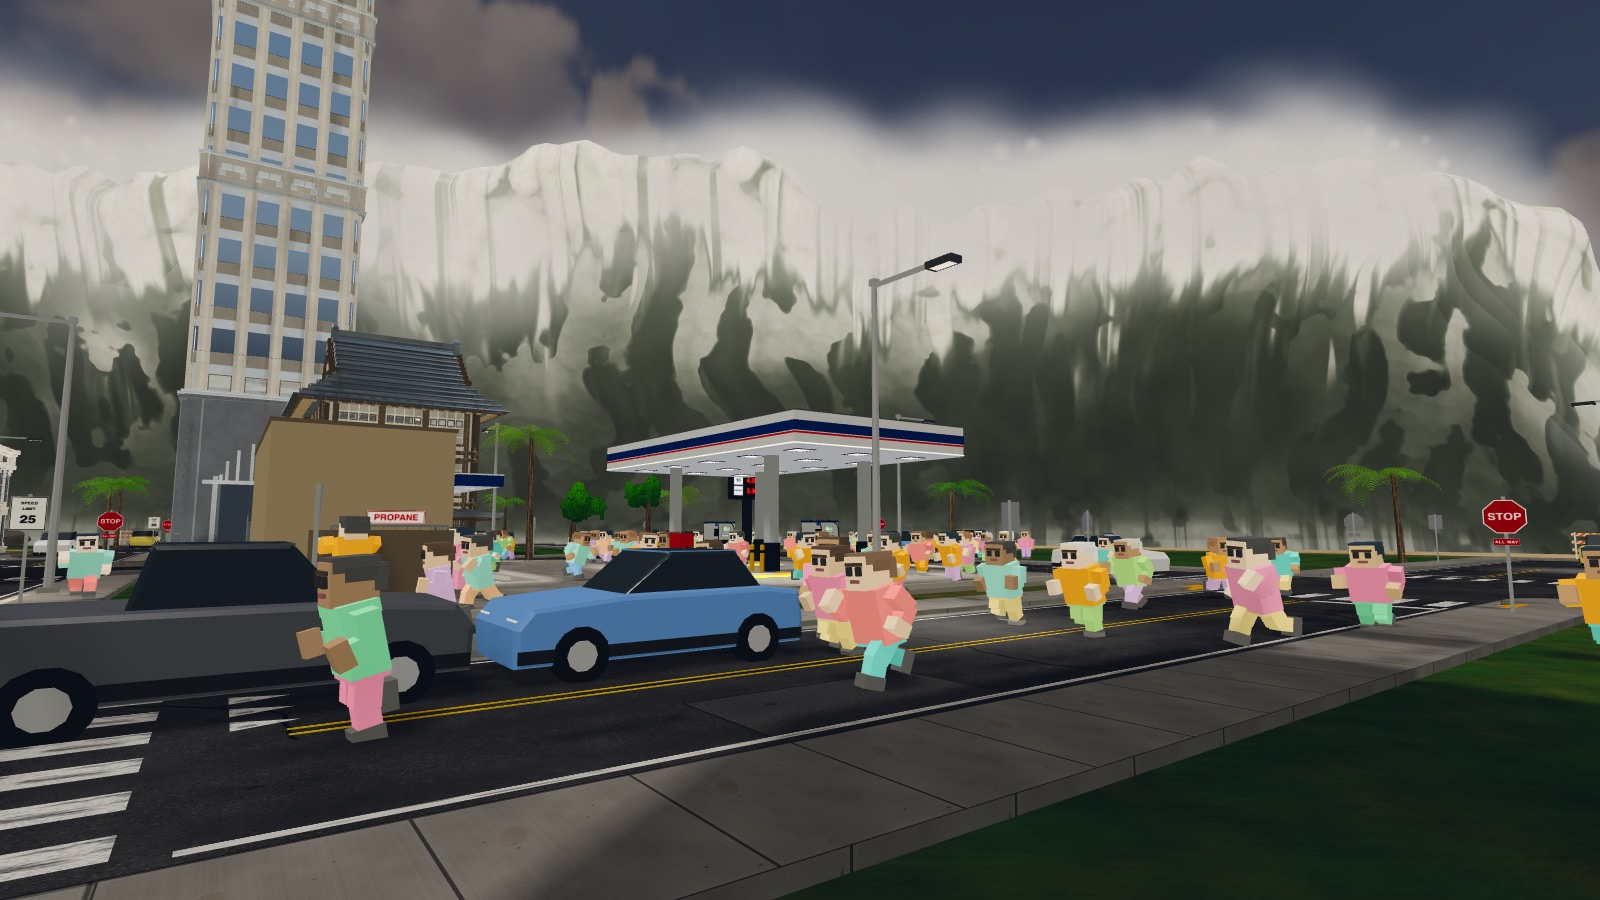
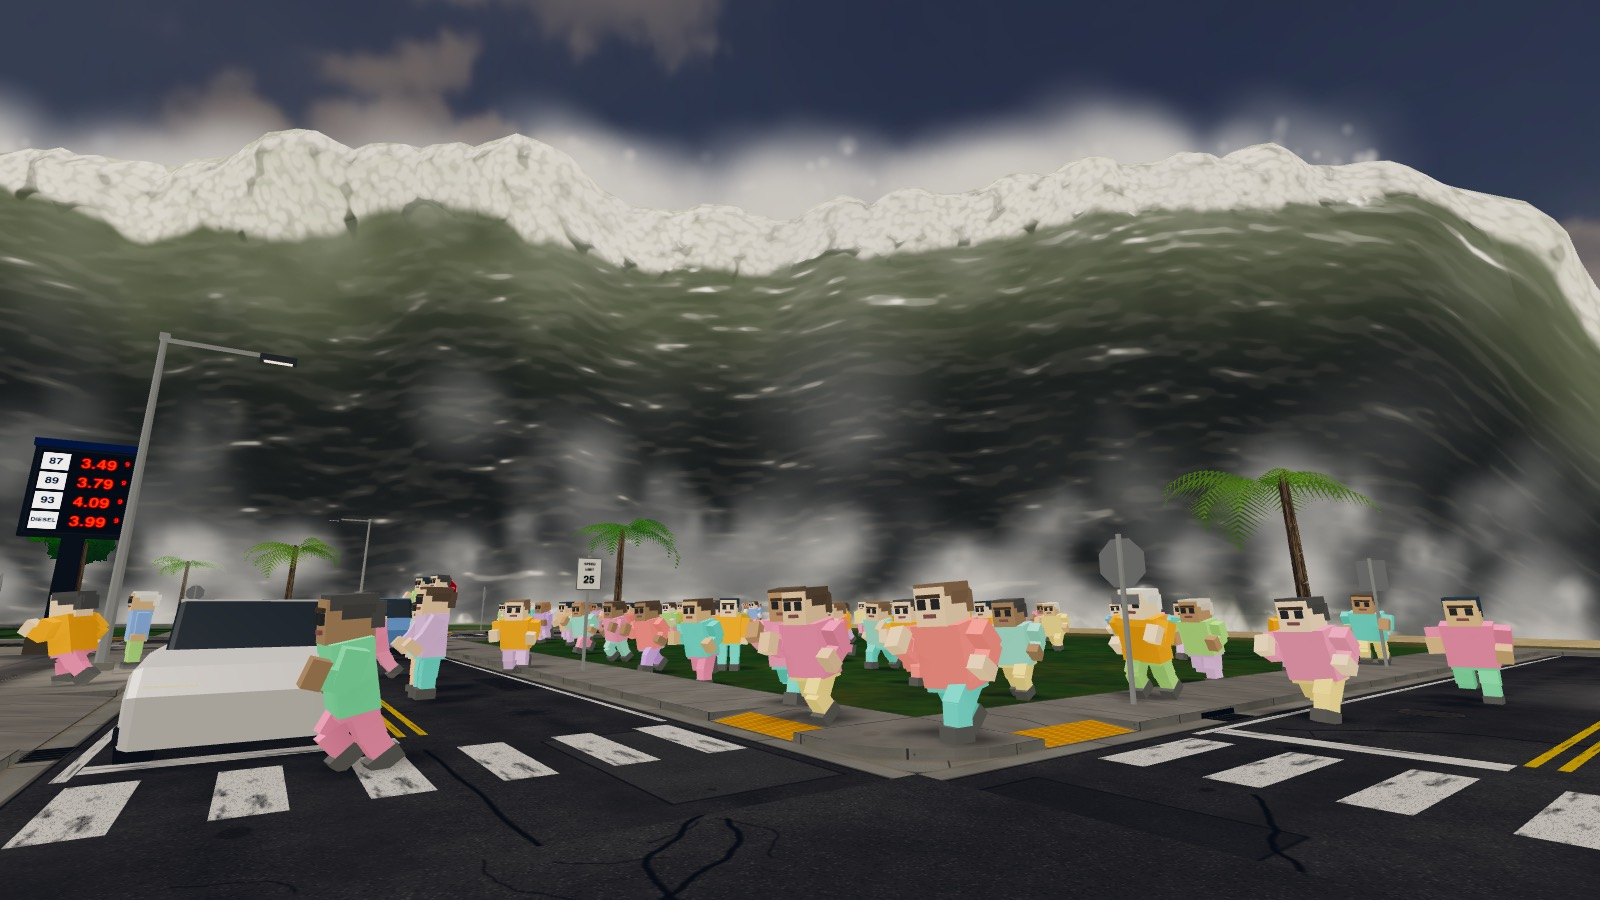
Tsunami face is water, not a snowy cliff: dark glossy rippled face, torn lip, exploding foot; key art re-shot closer
The previous pass read as a grey mountain range with snow on it. Following
the Tohoku reference:
- the face is clean, dark and GLOSSY: no more tongues/runs/lace/streaked
  normals (the rock gullies); instead fine slanted ripples climbing the wall
  (finite-difference normals) catching storm-sky reflection, sheen and sharp
  highlights; darker at the heavy base, varied along the front
- a lighter translucent green-brown band just under the lip where the water
  thins, lit through
- white water is a narrow torn churn at the lip and a violent foam band at
  the foot, not a snowfield; smaller boils, flatter crest lobes, more lean
- spray: new FOOT BURST population (white columns exploding up and forward
  where the base hits land), mist streaming back off the crest, veil and
  droplets toned down so nothing reads as floating blobs
- key art lens 76 m inland at 1.6 m, fov 64: the wall fills the sky over the
  street; the shore scan now fans clearance rays across the frame (and
  overhead) so no canopy or sign fronts the shot

Claude-Session: https://claude.ai/code/session_01QRERvJmgMuzmBcT6ueQDKF

diff --git a/src/world/water_spec.js b/src/world/water_spec.js
@@ -2912,8 +2912,8 @@
       uLP: { value: new THREE.Vector3() }, uHalfW: { value: 160 },
       uBodySea: { value: new THREE.Color(0.045, 0.085, 0.074) },
       uBodyMud: { value: new THREE.Color(0.072, 0.058, 0.040) },
-      uGlowSea: { value: new THREE.Color(0.08, 0.13, 0.115) },
-      uGlowMud: { value: new THREE.Color(0.12, 0.105, 0.08) },
+      uGlowSea: { value: new THREE.Color(0.07, 0.12, 0.10) },
+      uGlowMud: { value: new THREE.Color(0.12, 0.11, 0.07) },
       uFoamClean: { value: new THREE.Color(0.90, 0.92, 0.92) },
       uFoamMud: { value: new THREE.Color(0.66, 0.62, 0.55) },
     });
@@ -2938,7 +2938,7 @@
       // where the whitewater is: the roller on the upper front (deeper with
       // sediment), a little over the back of the crest, the foot, the skirt
       "float rollMask( float u, float side, float sk, float sdn ) {",
-      "  float lo = mix( 0.84, 0.72, uTurbid );",
+      "  float lo = mix( 0.88, 0.80, uTurbid );",
       "  float r = smoothstep( lo, lo + 0.22, u ) * mix( 0.30, 1.0, side ) * ( 1.0 - sk );",
       "  r = max( r, side * ( 1.0 - sk ) * ( 1.0 - smoothstep( 0.12, 0.30, u ) ) * 0.65 );",
       "  r = max( r, sk * ( 1.0 - smoothstep( 0.0, 0.8, sdn ) ) * ( 0.55 + 0.45 * uTurbid ) );",
@@ -2954,7 +2954,7 @@
       "  p.z += sin( A0 * 0.77 ) * ( 0.08 + 0.78 * u ) * ch;",
       // the throw: the upper front runs ahead of its own foot
       "  float cw = u * u * mix( 0.45, 1.0, side ) * ( 1.0 - sk );",
-      "  p.z += uCurl * 6.2 * uHs * cw;",
+      "  p.z += uCurl * 8.0 * uHs * cw;",
       // the crest is never one height: lobes, and chunks thrown up out of it
       "  float lr = max( 0.0, ( u - uLobeFrom ) / ( 1.0 - uLobeFrom ) );",
       "  float lw = lr * lr * ( 1.0 - sk );",
@@ -3037,101 +3037,90 @@
       "  float fall = arc - T * uRollV;",
       "  float nA = fbm( vec2( x * 0.045, fall * 0.06 ), fine );",
       "  float nB = fbm( vec2( x * 0.30, fall * 0.34 ), fine );",
-      // streaks: stretched DOWN the face and braided by a slow warp
-      "  float nS = fbm( vec2( x * 0.42 + nA * 3.0, ( arc - T * uRollV * 1.7 ) * 0.09 ), fine );",
       "  vec3 cA = cellB( vec2( x, fall ) / ( uLumpS * 0.55 ), T * 1.2 );",
       "  vec3 cB = fine > 0.03 ? cellB( vec2( x, fall * 1.1 ) / ( uLumpS * 0.22 ) + 7.7, T * 1.7 ) : vec3( 0.6, 0.0, 0.0 );",
-      // ---- foam coverage
-      /* THE ROLLER: its lower edge is torn into tongues metres long, and it
-         reaches further down the wall the more sediment it is carrying. */
+      // ---- foam coverage (2026-09-27 WATER PASS)
+      /* The last pass read as a grey mountain range with snow on it: a matte
+         body streaked with vertical gullies (tongues, runs, lace, streaked
+         normals) under a uniform fluffy white cap. Tohoku footage says the
+         opposite: the FACE is dark, clean and GLOSSY, the white water is a
+         ragged churn at the LIP and an explosion at the FOOT where the water
+         hits land, and the only light band on the face is the thinning water
+         just under the lip. So: no face streaks at all, a narrow torn lip,
+         a violent base. */
       "  float jag = fbm( vec2( x * 0.05 - T * 0.02, 3.7 ), 0.4 );",
-      "  float edge = mix( 0.88, 0.76, tb ) - ( jag - 0.5 ) * 0.26 - ( nS - 0.5 ) * 0.22 - 0.05 * uCurlN;",
-      "  float rollF = smoothstep( edge - 0.03, edge + 0.08, up ) * smoothstep( 0.2, 0.7, side ) * ( 1.0 - sk );",
-      // tongues pouring down the dark wall below it
-      "  float nT = fbm( vec2( x * 0.34 + nA * 2.6, ( arc - T * uRollV * 1.4 ) * 0.06 ), fine );",
-      "  float tongue = side * ( 1.0 - sk ) * smoothstep( 0.55, 0.76, nT ) * smoothstep( edge - 0.38, edge - 0.02, up ) * ( 0.55 + 0.35 * tb );",
-      // the crest rolling over the back, and aerated sheets running down it
-      "  float backF = ( 1.0 - side ) * ( smoothstep( 0.82, 0.97, up + ( nB - 0.5 ) * 0.25 )",
-      "              + smoothstep( 0.62, 0.86, nS ) * smoothstep( 0.25, 0.8, up ) * 0.45 );",
-      // the churn at the foot, and the boil across the skirt
-      "  float footF = side * ( 1.0 - sk ) * ( 1.0 - smoothstep( 0.10, 0.26 + 0.1 * tb, up ) ) * smoothstep( 0.30, 0.60, nB + 0.25 * tb );",
-      "  float skirtF = sk * smoothstep( 0.34 - 0.14 * tb, 0.62, nB * 0.6 + cA.x * 0.4 ) * ( 1.0 - smoothstep( 0.35, 1.0, sdn ) );",
-      "  float foam = max( max( rollF, tongue ), max( backF, max( footF, skirtF ) ) );",
-      /* HOLES. Dark water shows through between the boils: coverage without
-         gaps is the white/tan curtain failure. */
-      "  float hole = 1.0 - smoothstep( 0.16, 0.36, cA.x * 0.55 + nB * 0.45 );",
-      "  foam *= 1.0 - hole * mix( 0.85, 0.55, rollF );",
-      "  foam = clamp( foam * ( 0.80 + 0.35 * uFoam ), 0.0, 1.0 );",
-      /* WATER RUNNING THROUGH THE FOAM (2026-09-27). In a still frame the
-         roller read as snow on rock: every boil a solid lit lump. Real
-         whitewater is streaked with the dark water pouring through it, fall
-         lines running down the face and dragged with the roll. */
-      "  float fall2 = fbm( vec2( x * 0.95 + nA * 1.5, arc * 0.022 - T * uRollV * 0.05 ), fine );",
-      "  float runs = smoothstep( 0.52, 0.78, fall2 ) * side * ( 1.0 - sk );",
-      "  foam *= 1.0 - runs * 0.45;",
-      /* LACE (2026-09-27, keyart pass). Between the roller and the foot the
-         wall was one flat dark sheet, which is what made the whole face read
-         as rock with snow on it. A real face is MARBLED: a torn net of foam
-         stretched over the dark water, being drawn UP the face toward the
-         crest. The net is the creases of a warped, stretched cellular field
-         (irregular cells, never parallel stripes), patchy, densest just under
-         the roller where the foam is tearing off it. */
-      "  vec2 lq = vec2( x * 0.20 + nA * 2.4, ( arc + T * uRollV * 0.55 ) * 0.085 + nB * 0.9 );",
-      "  float cl = fine > 0.03 ? cellB( lq, T * 0.35 ).x : 0.6;",
-      "  float net = 1.0 - smoothstep( 0.60, 0.74, cl );",
-      "  net *= smoothstep( 0.30, 0.62, fbm( vec2( x * 0.035 + 11.0, arc * 0.03 + T * 0.08 ), fine ) );",
-      "  float lace = net * side * ( 1.0 - sk ) * ( 0.30 + 0.70 * smoothstep( 0.15, edge, up ) ) * ( 1.0 - rollF ) * fine;",
-      "  foam = max( foam, lace * ( 0.55 + 0.25 * tb ) );",
+      "  float jag2 = fbm( vec2( x * 0.19 + T * 0.05, 8.1 ), fine );",
+      "  float edge = mix( 0.92, 0.86, tb ) - ( jag - 0.5 ) * 0.10 - ( jag2 - 0.5 ) * 0.06 - 0.03 * uCurlN;",
+      "  float rollF = smoothstep( edge - 0.015, edge + 0.04, up ) * smoothstep( 0.2, 0.7, side ) * ( 1.0 - sk );",
+      "  float backF = ( 1.0 - side ) * smoothstep( 0.86, 0.98, up + ( nB - 0.5 ) * 0.2 );",
+      // the foot: whitewater climbing the lower wall where it hits the land
+      "  float footTop = 0.10 + 0.12 * tb + ( jag2 - 0.5 ) * 0.10 + ( jag - 0.5 ) * 0.08;",
+      "  float footF = side * ( 1.0 - sk ) * ( 1.0 - smoothstep( footTop - 0.03, footTop + 0.04, up ) );",
+      "  float skirtF = sk * smoothstep( 0.30 - 0.14 * tb, 0.58, nB * 0.6 + cA.x * 0.4 ) * ( 1.0 - smoothstep( 0.35, 1.0, sdn ) );",
+      "  float foam = max( max( rollF, backF ), max( footF, skirtF ) );",
+      /* HOLES: churn is torn, never a blanket. Dark water shows through
+         between the boils, most at the ragged margins of each band. */
+      "  float hole = 1.0 - smoothstep( 0.20, 0.42, cA.x * 0.55 + nB * 0.45 );",
+      "  foam *= 1.0 - hole * mix( 0.8, 0.3, rollF );",
+      "  foam = clamp( foam * ( 0.85 + 0.30 * uFoam ), 0.0, 1.0 );",
       /* THE WHITE LINE. Far out (or while the face is still low) the churn is
          sub-pixel and what the eye sees is a bright white line on the sea. */
       "  float far = max( smoothstep( 280.0, 900.0, dist ), 1.0 - smoothstep( 3.5, 9.0, uH ) );",
       "  foam = mix( foam, max( foam, smoothstep( 0.40, 0.75, up + 0.25 * side ) * ( 1.0 - sk ) ), far );",
-      // ---- normal: vertex boils + the fine boils' analytic slope in the foam
+      // ---- normal
       "  vec3 nrm = normalize( vNrm );",
       "  if ( dot( nrm, V ) < 0.0 ) nrm = -nrm;",
       "  vec3 Tt = cross( vec3( 0.0, 1.0, 0.0 ), nrm );",
       "  float tl = length( Tt );",
       "  Tt = tl > 0.08 ? Tt / tl : vec3( 1.0, 0.0, 0.0 );",
       "  vec3 Bt = cross( nrm, Tt );",
+      /* RIPPLES ON THE FACE: wide, low, slightly slanted swells climbing the
+         wall (a bore's face is being fed from below), the slope taken by
+         finite differences so every crest of every ripple catches the sky. */
+      "  vec2 rq = vec2( x * 0.16 + arc * 0.03, arc * 0.50 + T * uRollV * 0.55 );",
+      "  float r0 = fbm( rq, fine ), rx = fbm( rq + vec2( 0.35, 0.0 ), fine ), ry = fbm( rq + vec2( 0.0, 0.35 ), fine );",
+      "  vec2 rq2 = vec2( x * 0.62 - arc * 0.08, arc * 1.6 + T * uRollV * 1.4 ) + 17.0;",
+      "  float s0 = vn( rq2 ), sx = vn( rq2 + vec2( 0.3, 0.0 ) ), sy = vn( rq2 + vec2( 0.0, 0.3 ) );",
+      "  vec2 gW = ( vec2( rx - r0, ry - r0 ) * 3.2 + vec2( sx - s0, sy - s0 ) * 1.6 * fine ) * mix( 1.0, 0.35, smoothstep( 0.4, 0.9, 1.0 - dot( nrm, V ) ) );",
       "  vec2 gA = cA.yz * 3.0, gB = cB.yz * 3.0;",
-      "  vec2 g = ( gA * 0.55 + gB * 0.35 * fine ) * foam + vec2( nB - 0.5, nS - 0.5 ) * 0.7 * ( 1.0 - foam );",
-      "  vec3 N = normalize( nrm - ( Tt * g.x + Bt * g.y ) * 0.38 * ( 1.0 - far * 0.7 ) );",
+      "  vec2 g = ( gA * 0.55 + gB * 0.35 * fine ) * foam + gW * ( 1.0 - foam );",
+      "  vec3 N = normalize( nrm - ( Tt * g.x + Bt * g.y ) * 0.45 * ( 1.0 - far * 0.7 ) );",
       "  float ndl = max( dot( N, uSunDir ), 0.0 );",
       "  float ndlW = clamp( ( dot( N, uSunDir ) + 0.45 ) / 1.45, 0.0, 1.0 );",
       "  vec3 hemiL = mix( uGndCol, uSkyCol, 0.5 + 0.5 * N.y );",
-      // ---- the body: dark, heavy, never glass
+      // ---- the body: dark, deep, GLOSSY
       "  vec3 body = mix( uBodySea, uBodyMud, pow( tb, 1.2 ) );",
-      "  body *= ( 0.80 + 0.34 * nA + 0.30 * ( nB - 0.5 ) ) * ( 0.75 + 0.55 * up * ( 1.0 - sk ) );",
-      "  vec3 bodyLit = body * ( hemiL + uSunCol * ndl );",
+      // darker at the heavy base, a little lighter up the face, never uniform along it
+      "  body *= ( 0.78 + 0.44 * nA ) * mix( 0.55, 1.05, smoothstep( 0.0, 0.8, up ) );",
+      "  vec3 bodyLit = body * ( hemiL * 0.6 + uSunCol * ndl * 0.45 );",
+      "  vec3 Rv = reflect( -V, N );",
+      "  float fres = pow( 1.0 - clamp( dot( N, V ), 0.0, 1.0 ), 5.0 );",
+      // storm sky in the face: horizon glare low, the heavy overcast above
+      "  vec3 skyR = mix( uGndCol * 0.6, mix( uSkyCol * 1.35, uSkyCol * 0.95, smoothstep( 0.25, 0.9, Rv.y ) ), smoothstep( -0.15, 0.12, Rv.y ) );",
+      "  float refl = 0.05 + 0.75 * fres;",
+      "  bodyLit = mix( bodyLit, skyR, refl * ( 1.0 - 0.35 * tb ) );",
+      // SHEEN: every ripple crest that tilts up at the bright sky flashes
+      "  float sheen = pow( smoothstep( 0.22, 0.70, Rv.y ), 3.0 ) * smoothstep( 0.0, 0.5, dot( N, V ) );",
+      "  bodyLit += uSkyCol * sheen * ( 0.30 + 0.5 * fres ) * ( 1.0 - 0.4 * tb ) * ( 1.0 - far );",
       "  vec3 Hv = normalize( uSunDir + V );",
       "  float ndh = max( dot( N, Hv ), 0.0 );",
-      "  float fres = pow( 1.0 - clamp( dot( N, V ), 0.0, 1.0 ), 5.0 );",
-      "  bodyLit += uSunCol * ( pow( ndh, 60.0 ) * 0.45 * ( 1.0 - tb * 0.6 ) + pow( ndh, 8.0 ) * 0.05 );",
-      /* the sky in it: a steep face seen from the beach is at near-normal
-         incidence, so this is the few percent a real one shows, carried by
-         the rippled normal so it reads as moving water, not paint */
-      "  vec3 Rv = reflect( -V, N );",
-      "  vec3 skyR = mix( uGndCol, uSkyCol * 1.25, smoothstep( -0.2, 0.5, Rv.y ) );",
-      "  bodyLit += skyR * ( 0.035 + 0.9 * fres ) * ( 1.0 - 0.45 * tb );",
-      /* THIN WATER NEAR THE LIP. Light comes THROUGH the top of the wall:
-         green-grey offshore, olive-brown with sediment, strongest with the
-         sun behind the wave. Without it the crest is a black silhouette. */
-      "  float thinW = side * ( 1.0 - sk ) * smoothstep( 0.50, 0.93, up );",
+      "  bodyLit += uSunCol * ( pow( ndh, 120.0 ) * 1.4 + pow( ndh, 16.0 ) * 0.10 ) * ( 1.0 - tb * 0.5 );",
+      /* THE THIN BAND UNDER THE LIP. The water thins as it climbs into the
+         crest and the light comes THROUGH it: a lighter green-brown band
+         right under the churn, brightest with the sun behind the wave. */
+      "  float band = side * ( 1.0 - sk ) * smoothstep( edge - 0.34, edge - 0.03, up ) * ( 1.0 - smoothstep( edge - 0.01, edge + 0.05, up ) );",
       "  float back = pow( max( dot( -V, uSunDir ), 0.0 ), 3.0 );",
-      "  vec3 glow = mix( uGlowSea, uGlowMud, tb ) * ( hemiL * 0.9 + uSunCol * ( 0.25 + 1.2 * back ) );",
-      "  bodyLit += glow * thinW * ( 0.6 + 0.8 * nA );",
+      "  vec3 glow = mix( uGlowSea, uGlowMud, tb ) * ( hemiL * 1.3 + uSunCol * ( 0.35 + 1.4 * back ) );",
+      "  bodyLit += glow * band * band * ( 0.75 + 0.5 * r0 ) * 1.1;",
       // ---- the foam: lit boils with dark creases, dirty with sediment
       "  vec3 fc = mix( uFoamClean, uFoamMud, tb * tb * 0.8 + tb * 0.2 );",
       "  fc = mix( fc, uFoamClean, far * 0.6 );",
-      "  float ao = mix( 0.78, 1.0, smoothstep( 0.0, 0.75, cA.x ) ) * mix( 0.93, 1.0, cB.x ) * mix( 1.0, mix( 0.84, 1.0, boilV ), roll );",
+      "  float ao = mix( 0.80, 1.0, smoothstep( 0.0, 0.75, cA.x ) ) * mix( 0.78, 1.0, smoothstep( 0.2, 0.9, cB.x ) ) * mix( 1.0, mix( 0.82, 1.0, boilV ), roll );",
       "  ao = mix( ao, 1.0, far * 0.75 );",
-      "  float grain = fine > 0.05 ? vn( vec2( x, fall ) * 2.7 ) * 0.5 + vn( vec2( x, fall ) * 6.1 + 3.3 ) * 0.5 : 0.5;",
-      "  vec3 foamLit = fc * ao * ( 0.84 + 0.20 * nA + 0.16 * ( grain - 0.5 ) * fine ) * ( hemiL * 1.05 + uSunCol * ( 0.34 + 0.66 * ndlW ) );",
-      // foam in its own shadow is lit through: aerated water, not grey plaster
-      "  foamLit += mix( uGlowSea, uGlowMud, tb ) * ( hemiL + uSunCol * 0.3 ) * ( 1.0 - ndlW ) * 1.4;",
-      /* and it is TRANSLUCENT where it is thin: aerated water lit through,
-         the body's own colour glowing in it, not paper white on top of it */
-      "  vec3 thinLit = mix( bodyLit * 2.1 + uSkyCol * 0.06, foamLit, smoothstep( 0.35, 0.9, foam ) );",
+      "  vec3 foamLit = fc * ao * ( 0.84 + 0.20 * nA ) * ( hemiL * 1.0 + uSunCol * ( 0.30 + 0.70 * ndlW ) );",
+      "  foamLit += mix( uGlowSea, uGlowMud, tb ) * ( hemiL + uSunCol * 0.3 ) * ( 1.0 - ndlW ) * 1.2;",
+      // thin foam is aerated water lit through, not paper on top of it
+      "  vec3 thinLit = mix( bodyLit * 1.6 + glow * 0.8, foamLit, smoothstep( 0.35, 0.9, foam ) );",
       "  vec3 col = mix( bodyLit, mix( thinLit, foamLit, far ), foam );",
       // ---- alpha: the back tail melts into the sea, the skirt is patches, the ends dissolve
       "  float a = mix( smoothstep( 0.0, 0.14, up ), 1.0, side );",
@@ -3192,7 +3181,7 @@
       pos[i * 3 + 2] = 2.6 * zs + zJitAt(x);
       seed[i * 4] = rnd(); seed[i * 4 + 1] = rnd(); seed[i * 4 + 2] = rnd(); seed[i * 4 + 3] = rnd();
       const k = rnd();
-      kind[i] = k < 0.30 ? 0 : (k < 0.52 ? 1 : 2);
+      kind[i] = k < 0.26 ? 0 : (k < 0.50 ? 1 : (k < 0.62 ? 2 : 3));
     }
     const geo = new THREE.BufferGeometry();
     geo.setAttribute("position", new THREE.BufferAttribute(pos, 3));
@@ -3202,6 +3191,7 @@
     Object.assign(uni, {
       uTime: { value: 0 }, uHs: { value: 1 }, uH: { value: H }, uCurl: { value: 0.5 },
       uTurbid: { value: 0 }, uSpray: { value: 1 }, uWind: { value: 6 }, uScale: { value: 450 },
+      uSeaLocal: { value: 0.5 },
       uClean: { value: new THREE.Color(0.90, 0.93, 0.95) },
       uMud: { value: new THREE.Color(0.70, 0.66, 0.58) },
     });
@@ -3209,7 +3199,7 @@
     const VERT = [
       "attribute vec4 aSeed;",
       "attribute float aKind;",
-      "uniform float uTime, uHs, uH, uCurl, uTurbid, uSpray, uWind, uScale;",
+      "uniform float uTime, uHs, uH, uCurl, uTurbid, uSpray, uWind, uScale, uSeaLocal;",
       "uniform vec3 uClean, uMud, uSunCol, uSkyCol;",
       "varying vec4 vCol;",
       "varying vec3 vPuff;",   // seed, lumpiness, kind
@@ -3217,7 +3207,7 @@
       "void main() {",
       "  vec4 s = aSeed;",
       "  float kd = aKind;",
-      "  float L = kd > 1.5 ? 5.0 + 4.0 * s.y : ( kd > 0.5 ? 3.4 + 2.6 * s.y : 1.3 + 1.2 * s.y );",
+      "  float L = kd > 2.5 ? 2.2 + 1.8 * s.y : ( kd > 1.5 ? 5.0 + 4.0 * s.y : ( kd > 0.5 ? 3.4 + 2.6 * s.y : 1.3 + 1.2 * s.y ) );",
       "  float cyc = uTime / L + s.x;",
       "  float life = fract( cyc );",
       "  float gen = floor( cyc );",
@@ -3225,9 +3215,23 @@
       "  float sh = sqrt( max( 0.15, uHs ) );",
       "  vec3 p = position * vec3( 1.0, uHs, uHs );",
       "  p.x += ( fract( sin( gen * 12.9898 + s.z * 78.233 ) * 43758.5453 ) - 0.5 ) * 4.0;",
-      "  p.z += uCurl * 6.2 * uHs * 0.8;",
+      "  p.z += uCurl * 8.0 * uHs * 0.8;",
       "  float size, a;",
-      "  if ( kd > 1.5 ) {",
+      "  float ground = 1.0;",
+      "  if ( kd > 2.5 ) {",
+      /* THE FOOT BURST: where the wall's base slams into the land it
+         explodes UP, a boiling white column thrown forward onto the street.
+         Born on the water at the toe, launched to 15-55% of the wall. */
+      "    float hmax = uH * ( 0.15 + 0.40 * s.w * s.w );",
+      "    float g = 7.0;",
+      "    float vy = sqrt( 2.0 * g * hmax );",
+      "    p.y = uSeaLocal + 0.5 + max( 0.0, vy * tt - 0.5 * g * tt * tt );",
+      "    p.z = position.z * uHs + ( 2.8 + 1.5 * s.z ) * uH / 34.0 + ( 1.5 + 3.5 * s.z ) * tt;",
+      "    p.x += ( s.y - 0.5 ) * 3.0 * tt;",
+      "    size = ( 4.0 + 9.0 * s.z ) * ( 0.4 + 0.6 * uHs ) * ( 0.5 + 1.3 * life );",
+      "    a = 0.62 * smoothstep( 0.0, 0.1, life ) * pow( 1.0 - life, 1.1 );",
+      "    ground = 0.0;",
+      "  } else if ( kd > 1.5 ) {",
       /* the veil: a churning cloud ON the roller, not behind it. s.w is how
          far down the front a puff is born (0 = the lip, 1 = 12% down the
          wall); the deep ones sit out in front of the face and tumble down
@@ -3236,24 +3240,24 @@
       "    p.y += -uH * 0.12 * dn + ( 0.25 + 1.0 * ( 1.0 - dn ) ) * sh * tt - dn * 1.3 * sh * tt;",
       "    p.z += ( 1.4 + 2.6 * dn + 2.0 * s.z ) * uH / 34.0 - uWind * 0.30 * ( 1.0 - dn ) * tt;",
       "    p.x += ( s.y - 0.5 ) * 1.2 * tt;",
-      "    size = ( 9.0 + 16.0 * s.z ) * ( 0.35 + 0.65 * uHs ) * ( 0.75 + 0.7 * life );",
-      "    a = 0.50 * ( 1.0 - 0.5 * dn ) * sin( 3.14159 * life );",
+      "    size = ( 6.0 + 10.0 * s.z ) * ( 0.35 + 0.65 * uHs ) * ( 0.75 + 0.7 * life );",
+      "    a = 0.30 * ( 1.0 - 0.5 * dn ) * sin( 3.14159 * life );",
       "  } else if ( kd > 0.5 ) {",
       "    p.y += uH * 0.03 + ( 1.0 + 2.6 * s.w ) * sh * tt + 0.08 * tt * tt;",
       "    p.z -= uWind * ( 0.9 * tt + 0.10 * tt * tt );",
       "    p.x += ( s.z - 0.5 ) * 1.6 * tt;",
-      "    size = ( 5.5 + 9.0 * s.z ) * ( 0.4 + 0.6 * uHs ) * ( 0.6 + 1.8 * life );",
-      "    a = 0.50 * sin( 3.14159 * life );",
+      "    size = ( 7.0 + 10.0 * s.z ) * ( 0.4 + 0.6 * uHs ) * ( 1.0 + 1.4 * life );",
+      "    a = 0.66 * sin( 3.14159 * life );",
       "  } else {",
       "    float vy = ( 2.5 + 7.0 * s.w ) * sh;",
       "    p.y += vy * tt - 3.4 * tt * tt;",
       "    p.z += ( 0.8 + 2.2 * s.z ) * tt - uWind * 0.6 * tt * tt;",
       "    p.x += ( s.z - 0.5 ) * 2.0 * tt;",
       "    size = ( 0.6 + 1.3 * s.y ) * ( 0.6 + 0.4 * uHs ) * ( 1.0 + 1.5 * life );",
-      "    a = 0.75 * smoothstep( 0.0, 0.08, life ) * pow( 1.0 - life, 1.3 );",
+      "    a = 0.50 * smoothstep( 0.0, 0.08, life ) * pow( 1.0 - life, 1.3 );",
       "  }",
       // no crest to tear where the wave has tapered into the sea
-      "  a *= uSpray * smoothstep( 0.25, 0.6, position.y / max( 0.001, uH / uHs ) );",
+      "  a *= uSpray * mix( 1.0, smoothstep( 0.25, 0.6, position.y / max( 0.001, uH / uHs ) ), ground );",
       "  vec3 c = mix( uClean, uMud, uTurbid * uTurbid * 0.8 ) * ( 0.9 + 0.1 * s.y );",
       // spray is lit from everywhere at once (it scatters): never darker than overcast
       "  vec3 lit = max( uSkyCol * 0.95 + uSunCol * 0.55, vec3( 0.42 ) );",
@@ -3479,7 +3483,7 @@
     const wu = wallMat.uniforms;
     wu.uH.value = H;
     wu.uHalfW.value = W * 0.5;
-    wu.uLumpS.value = Math.max(1.6, Math.min(6.0, H * 0.16));
+    wu.uLumpS.value = Math.max(1.6, Math.min(3.2, H * 0.16));
     wu.uLP.value.set(rnd() * 6.283, rnd() * 6.283, rnd() * 6.283);
     mats.push(wallMat);
     const wall = new THREE.Mesh(geo, wallMat);
@@ -3544,9 +3548,9 @@
        (the callers fold the overhang at the crash), so sediment drives the
        crest raggedness too. */
     u.uLobe.value.set(
-      H * 0.022 * (0.35 + 0.80 * curl + 0.95 * turbid),
+      H * 0.013 * (0.35 + 0.80 * curl + 0.95 * turbid),
       (2.4 * curl + 3.2 * turbid) * hs,
-      H * 0.022 * (0.25 + 1.05 * turbid + 0.35 * curl),
+      H * 0.013 * (0.25 + 1.05 * turbid + 0.35 * curl),
       (0.6 + 1.8 * turbid) * hs);
     u.uLobeFrom.value = 0.79 - 0.13 * turbid;
 
@@ -3575,6 +3579,7 @@
       const burst = Number.isFinite(s.spray) ? Math.max(0, +s.spray) : 1;
       su.uSpray.value = Math.min(2.0, (0.45 + 0.55 * curl + 0.55 * turbid) * (0.6 + 0.5 * foamGain) * burst);
       su.uWind.value = 4.5 + 3.5 * Math.sqrt(Math.max(0.2, hs));
+      su.uSeaLocal.value = seaLocal;
       const r = CBZ.renderer;
       const ph = r && r.domElement ? r.domElement.height : 900;
       su.uScale.value = ph * 0.5;
